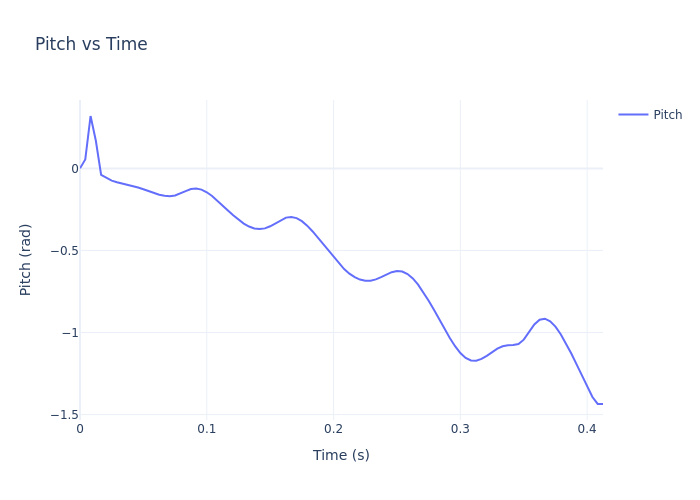
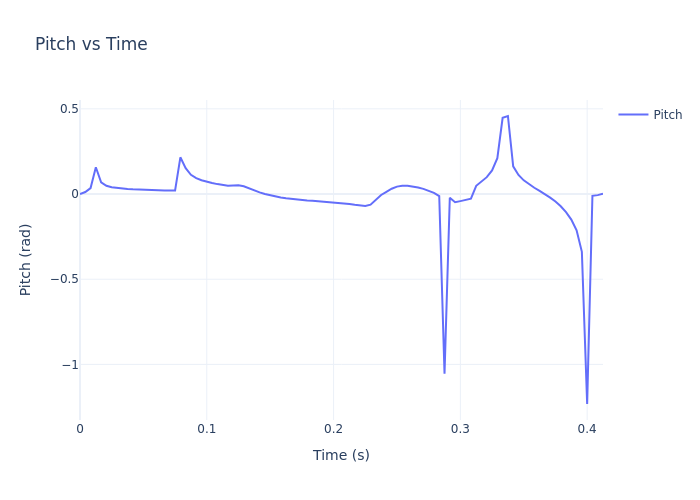
Updated requirements and mode

diff --git a/Software/Software/sbr_simulator/environment.py b/Software/Software/sbr_simulator/environment.py
@@ -7,7 +7,7 @@ from robot import *
 class environment():
 
     def __init__(self):
-        self.physicsClient = p.connect(p.DIRECT, options="--opengl2")
+        self.physicsClient = p.connect(p.GUI, options="--opengl2")
         p.setAdditionalSearchPath(pybullet_data.getDataPath()) #optionally
         p.setGravity(0,0,-9.81)
         self.planeId = p.loadURDF("plane.urdf")
@@ -28,9 +28,9 @@ def run_sim(dt, pid_const, gyro_sensor):
 
     setpoint = 0.0  # Desired pitch angle
 
-    mode = p.VELOCITY_CONTROL
+    mode = p.TORQUE_CONTROL
 
-    for i in range (100):
+    for i in range (10000):
         p.stepSimulation()
 
         # Get MPU data
@@ -41,8 +41,9 @@ def run_sim(dt, pid_const, gyro_sensor):
         pitch = gyro_sensor.get_pitch(accel_body)
 
         # PID control
-        pid = PID(Kp=pid_const[0], Ki=pid_const[1], Kd=pid_const[2], dt=dt, windup=1.0)
+        pid = PID(Kp=pid_const[0], Ki=pid_const[1], Kd=pid_const[2], dt=dt, windup=0.0)
         torque_output = pid.compute(setpoint, pitch)
+        print(torque_output)
 
         # Apply torque to the robot's joints
         p.setJointMotorControlArray(sbr.boxId, [0, 1], controlMode=mode, forces=[torque_output, torque_output])
@@ -102,13 +103,15 @@ def spin():
     # pid_brute_force()
 
     # Example usage of the run_sim function with a specific PID constant
-    pid_const = np.array([1.0, 350, 0.31])  # Example PID constants
+    pid_const = np.array([1.0, 300, 0.31])  # Example PID constants
     gyro_sensor = MPUSimulated(dt)
     
     run_sim(dt, pid_const, gyro_sensor)
 
     print("Plotting PID")
     gyro_sensor.plot_pid()
+
+
 
 
 # env = environment()

diff --git a/Software/Software/sbr_simulator/robot.py b/Software/Software/sbr_simulator/robot.py
@@ -13,6 +13,9 @@ class robot:
         startPos = [0,0,0.1]
         startOrientation = p.getQuaternionFromEuler([0,0,0.45])
         self.boxId = p.loadURDF("urdf/vehicle_urdf/urdf/vehicle_urdf.urdf",startPos, startOrientation)
+        max_force = 0
+        mode = p.TORQUE_CONTROL
+        p.setJointMotorControlArray(self.boxId, [0, 1], controlMode=mode, forces=[max_force, max_force])
 
 
 class PID:
@@ -33,7 +36,7 @@ class PID:
         
         self.antiwindup()  
         
-        output = () + (self.Ki * self.integral) + (self.Kd * self.derivative)
+        output = (self.potential) + (self.Ki * self.integral) + (self.Kd * self.derivative)
         self.prev_error = error
         return output
 
